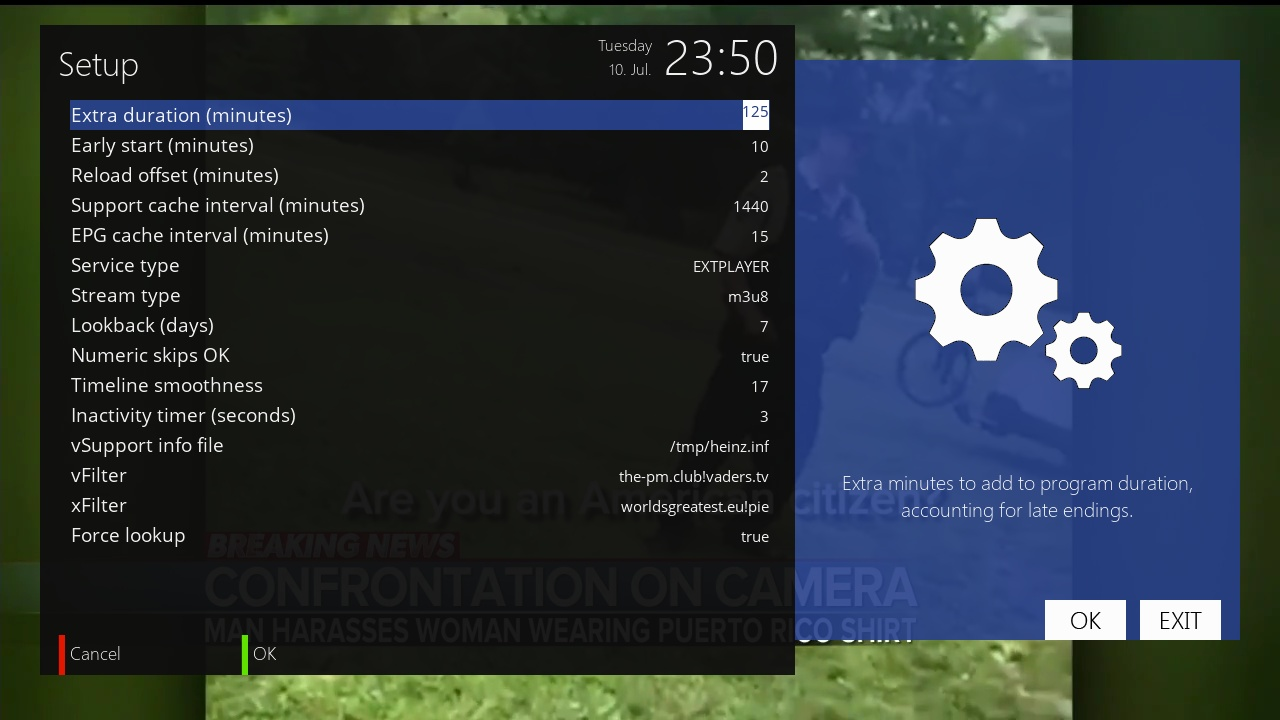
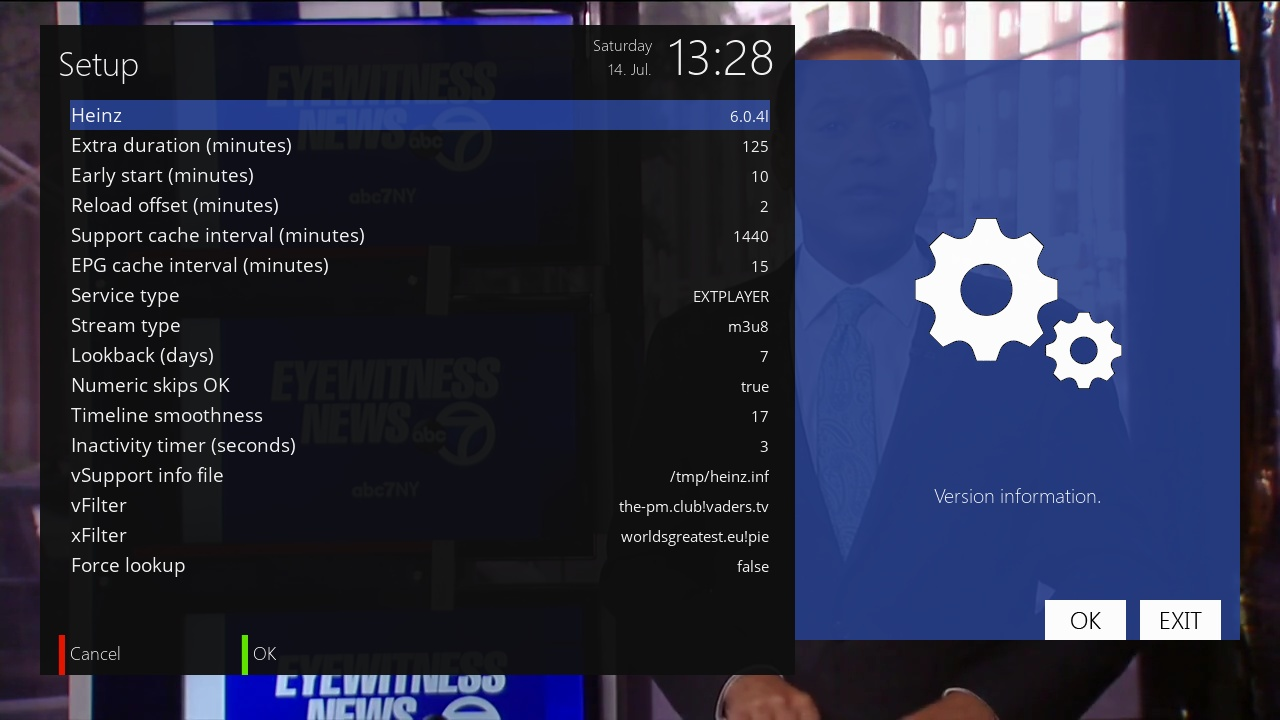
added version info to setup screen

diff --git a/openatv6.0/plugins/heinz/checksums.md b/openatv6.0/plugins/heinz/checksums.md
@@ -1,5 +1,5 @@
-enigma2-plugin-extensions-heinz-6.0.4k.ipk
+enigma2-plugin-extensions-heinz-6.0.4l.ipk
 
-MD5 268ad50a0ea590c43128a074492481b2
+MD5 c72713816b94b648a414fc6623faad33
 
-SHA 7edbedcc0049c2d1d4eef705a07c3d585fbf6cff
+SHA 9b79ae0d0cc7c244782aa4ec0d4ca9aea189a296
